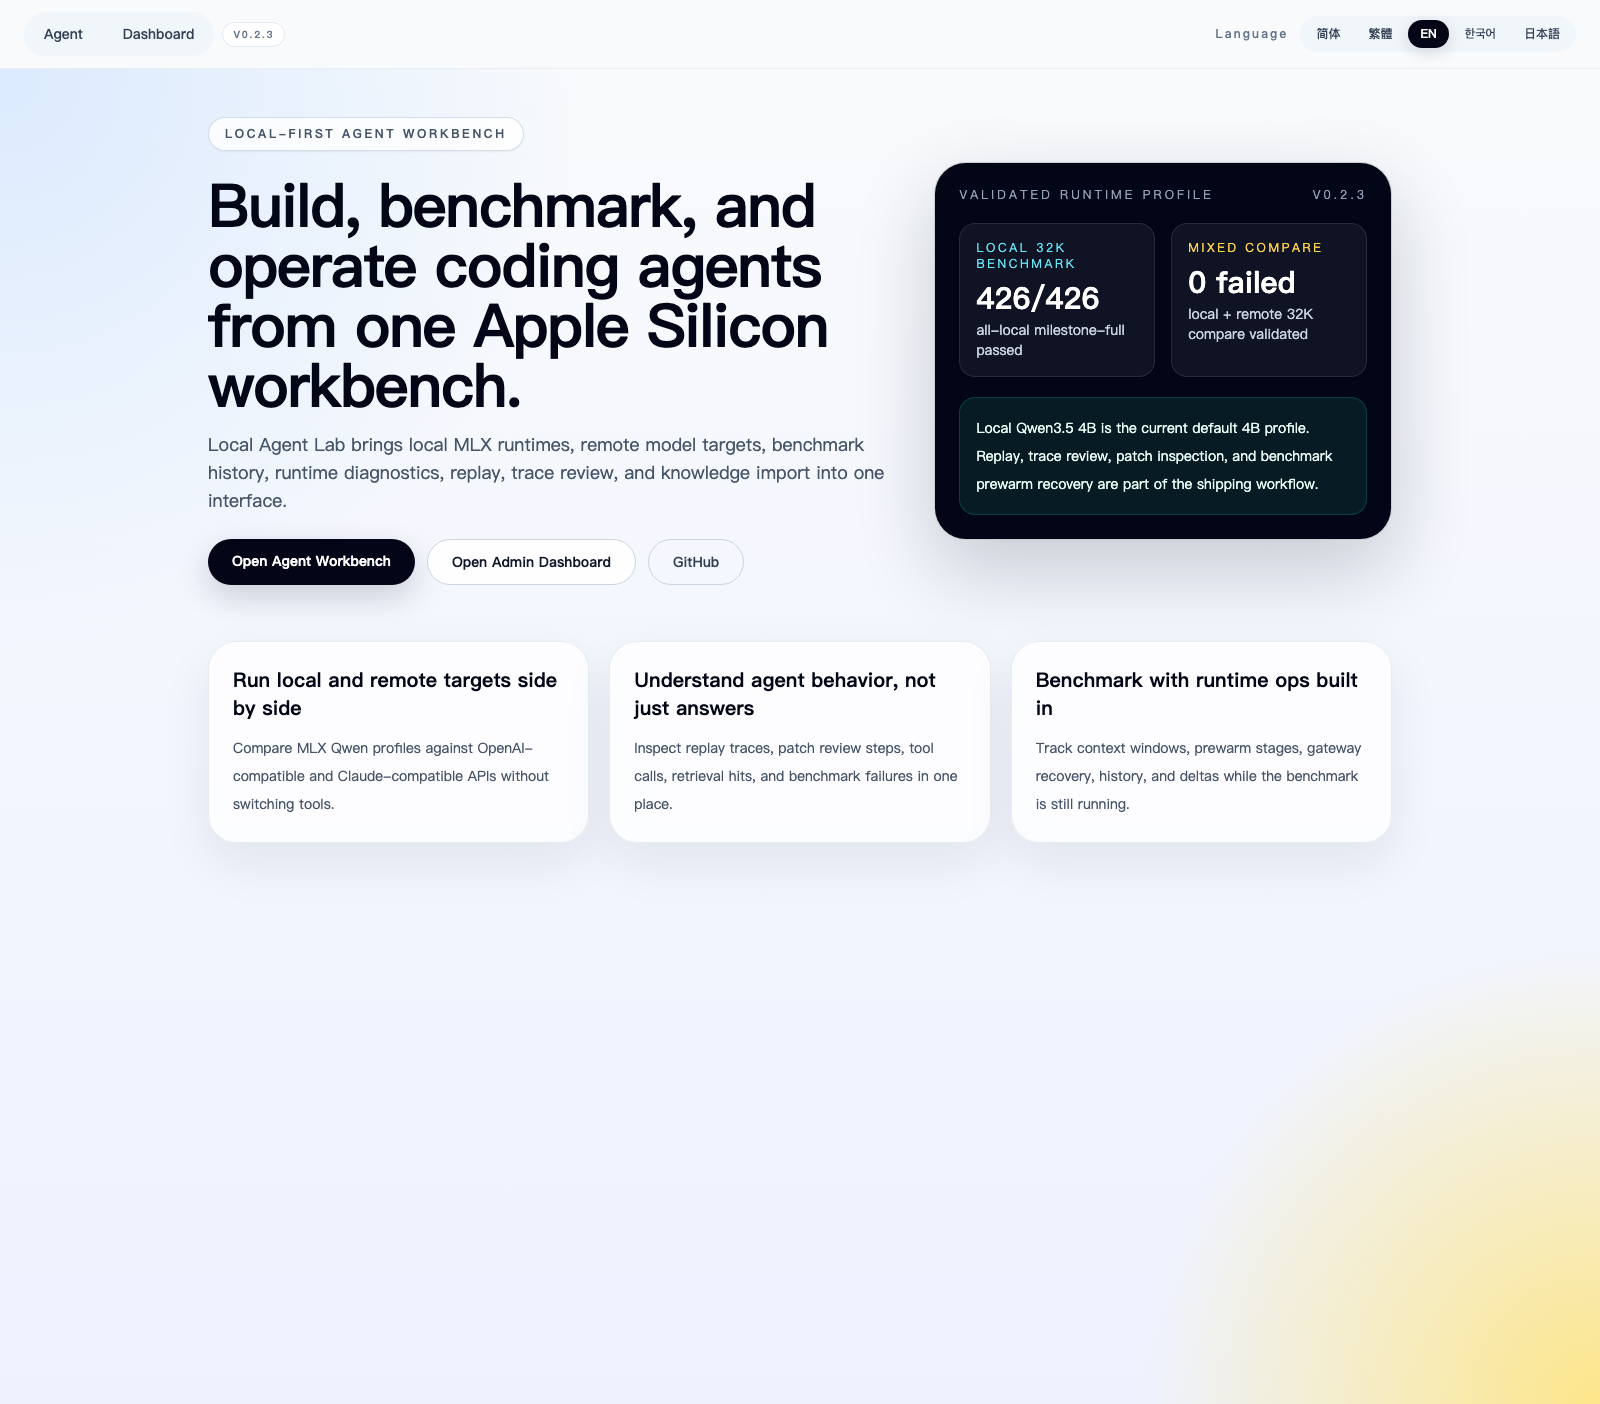
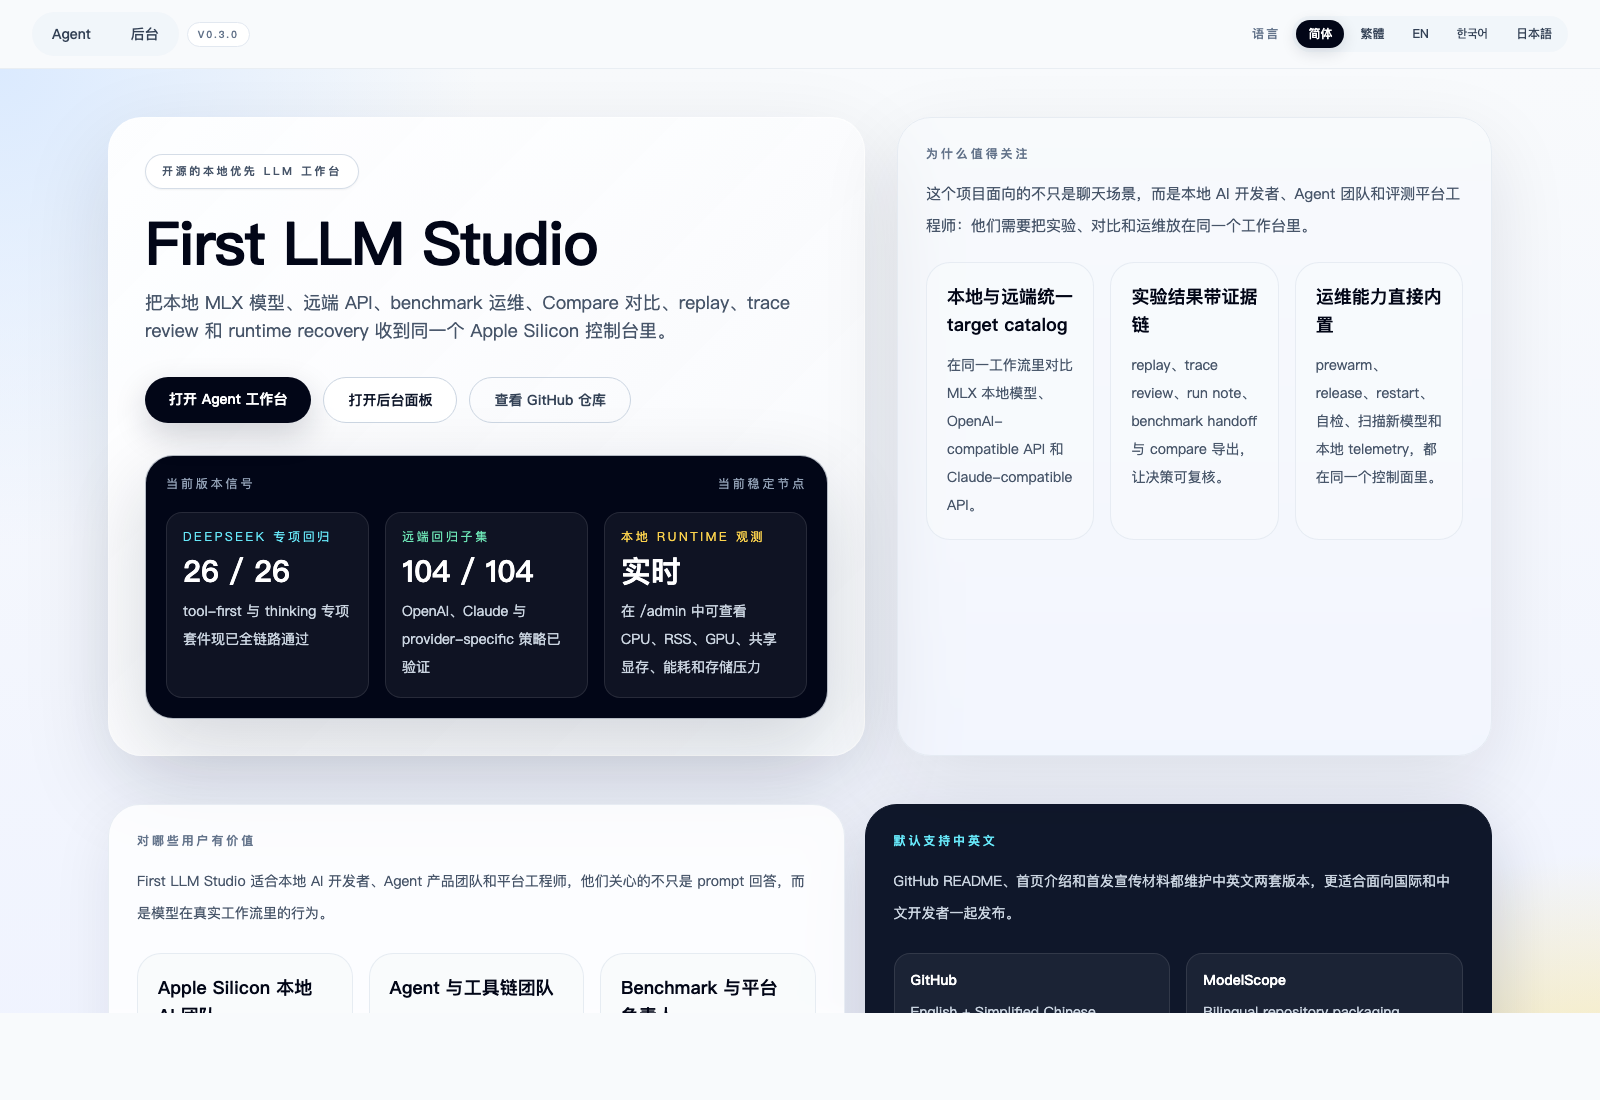
release: cut v0.3.0 launch package

diff --git a/docs/releases/v0.3.0_2026-04-11.md b/docs/releases/v0.3.0_2026-04-11.md
@@ -1,0 +1,66 @@
+# v0.3.0 · 2026-04-11
+
+## Scope
+
+First LLM Studio v0.3.0 is the first polished public release of the project under the new brand. This release turns the workbench from a local runtime experiment into a more complete operating surface for local-first LLM workflows on Apple Silicon.
+
+## Included
+
+### Product and UI
+
+- Rebranded the project as **First LLM Studio** across the web app, launch assets, and bilingual documentation.
+- Added a bilingual homepage and bilingual README surfaces for public launch.
+- Reworked the `/agent` layout for wide screens so the workbench uses space more intentionally instead of collapsing into long vertical rails.
+- Compressed Compare Lab into a denser review flow with clearer lane review, export, preview, and benchmark handoff actions.
+- Tightened the runtime side rail so status is visible first and lower-signal details stay tucked behind collapsible sections.
+
+### Compare Lab and review workflow
+
+- Embedded Compare Lab directly into the existing `/agent` workbench instead of opening a separate product surface.
+- Added compare run execution, base-lane diff review, rerun-single-lane, markdown export, preview, and benchmark handoff.
+- Added compare recovery progress, recovery timeline export, and manual recovery actions for stalled local lanes.
+- Added compact share formats for issue, PR, and chat review summaries.
+
+### Runtime and local model workflow
+
+- Added dynamic local model discovery, including models found in local libraries such as LM Studio-compatible directories.
+- Added richer model metadata such as parameter scale, quantization label, recommended context, and source path.
+- Added local runtime telemetry and trend cards for CPU, memory, GPU, shared GPU memory, energy signal, and storage pressure.
+- Fixed local runtime status so unloaded models are represented as unloaded/idle instead of ambiguous failure states.
+- Added one-click scanning in the Agent target rail to refresh newly discovered local models and configured remote APIs.
+
+### Provider and benchmark operations
+
+- Added DeepSeek remote targets and wired them through chat, thinking mode, tools/function-calling, compare, connection checks, and benchmark flows.
+- Added provider-aware output contracts and remote benchmark budgets for OpenAI-compatible endpoints.
+- Stabilized remote regression handling with provider-specific first-token budgets, retry budgets, and stream idle protection.
+- Added formal and focused benchmark improvements, including DeepSeek-focused remote regression runs.
+
+### Performance and developer workflow
+
+- Split compare-only helpers, lifecycle, actions, preferences, and review parsing out of `AgentWorkbench` to reduce main workbench weight.
+- Split Next.js dev and build artifact directories so production builds no longer corrupt local dev sessions.
+- Simplified the local gateway shell to avoid heavyweight framework import stalls during development.
+
+## Verification
+
+- Local version: `0.3.0`
+- TypeScript: `./node_modules/.bin/tsc --noEmit`
+- Lint: `npm run lint`
+- Build: `npm run build`
+- Agent URL: [http://localhost:3011/agent](http://localhost:3011/agent)
+- Admin URL: [http://localhost:3011/admin](http://localhost:3011/admin)
+- Remote formal subset: OpenAI + Claude remote regression subset recovered to full green in the latest repaired run.
+- DeepSeek focus subset: `26 / 26` successful after tool-first / thinking optimization.
+
+## Screenshots
+
+- Landing page: [`docs/assets/landing-page.png`](../assets/landing-page.png)
+- Agent workbench: [`docs/assets/agent-workbench.png`](../assets/agent-workbench.png)
+- Admin dashboard: [`docs/assets/admin-dashboard.png`](../assets/admin-dashboard.png)
+
+## Notes
+
+- The GitHub repository slug remains `local-agent-lab` for continuity, but public-facing branding in this release is **First LLM Studio**.
+- ModelScope launch packaging for this release includes bilingual documentation, launch copy, and visual assets.
+- A few historical hook warnings remain in legacy UI files, but this release passes build, lint, and type-check gates.

diff --git a/README.md b/README.md
@@ -202,4 +202,4 @@ Issues and PRs are welcome.
 - Current version: [`VERSION`](./VERSION)
 - Release notes: [`docs/releases`](./docs/releases)
 - Release process: [`docs/release-process.md`](./docs/release-process.md)
-- Latest release: [v0.2.3](https://github.com/ChrisChen667788/local-agent-lab/releases/tag/v0.2.3)
+- Latest release note: [v0.3.0](./docs/releases/v0.3.0_2026-04-11.md)

diff --git a/README.zh-CN.md b/README.zh-CN.md
@@ -202,4 +202,4 @@ public/                   对外资源和社媒封面图
 - 当前版本：[`VERSION`](./VERSION)
 - Release notes：[`docs/releases`](./docs/releases)
 - 发布流程：[`docs/release-process.md`](./docs/release-process.md)
-- 最新 release：[v0.2.3](https://github.com/ChrisChen667788/local-agent-lab/releases/tag/v0.2.3)
+- 最新版本说明：[v0.3.0](./docs/releases/v0.3.0_2026-04-11.md)